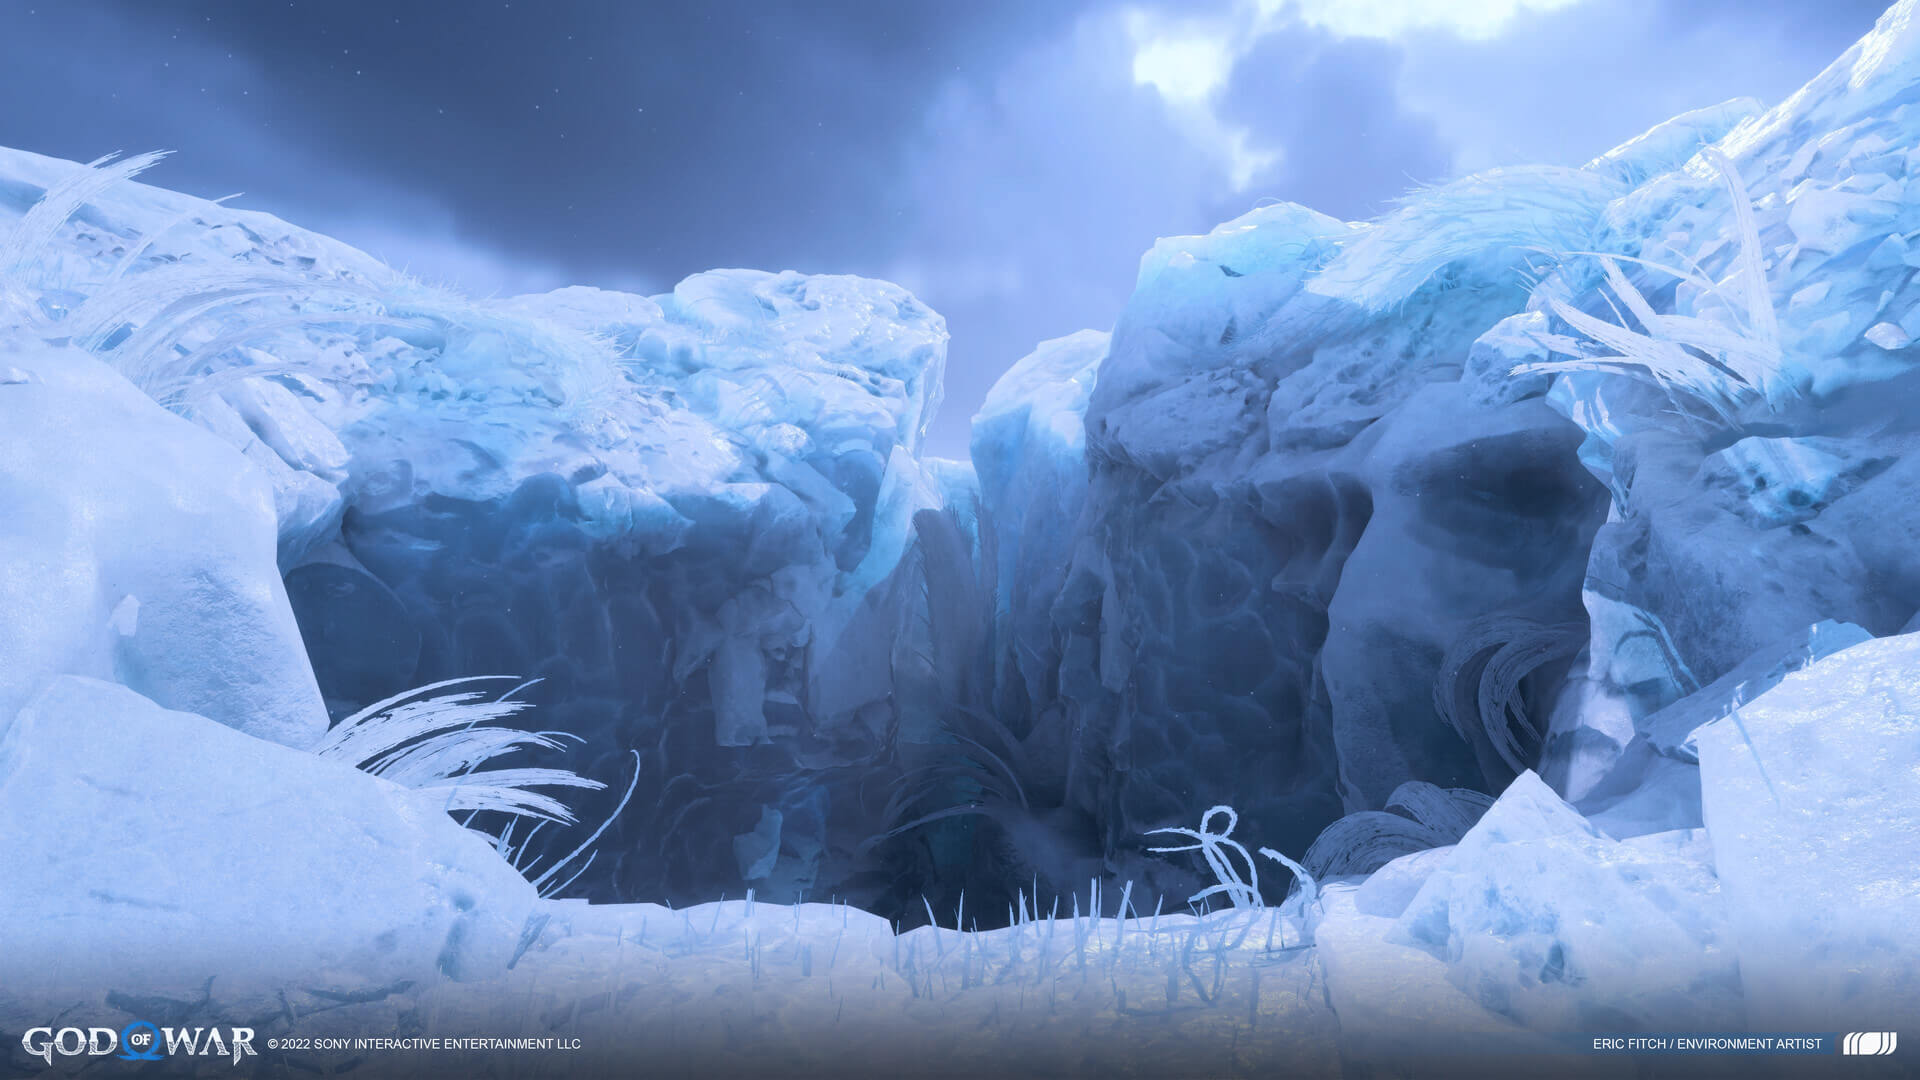
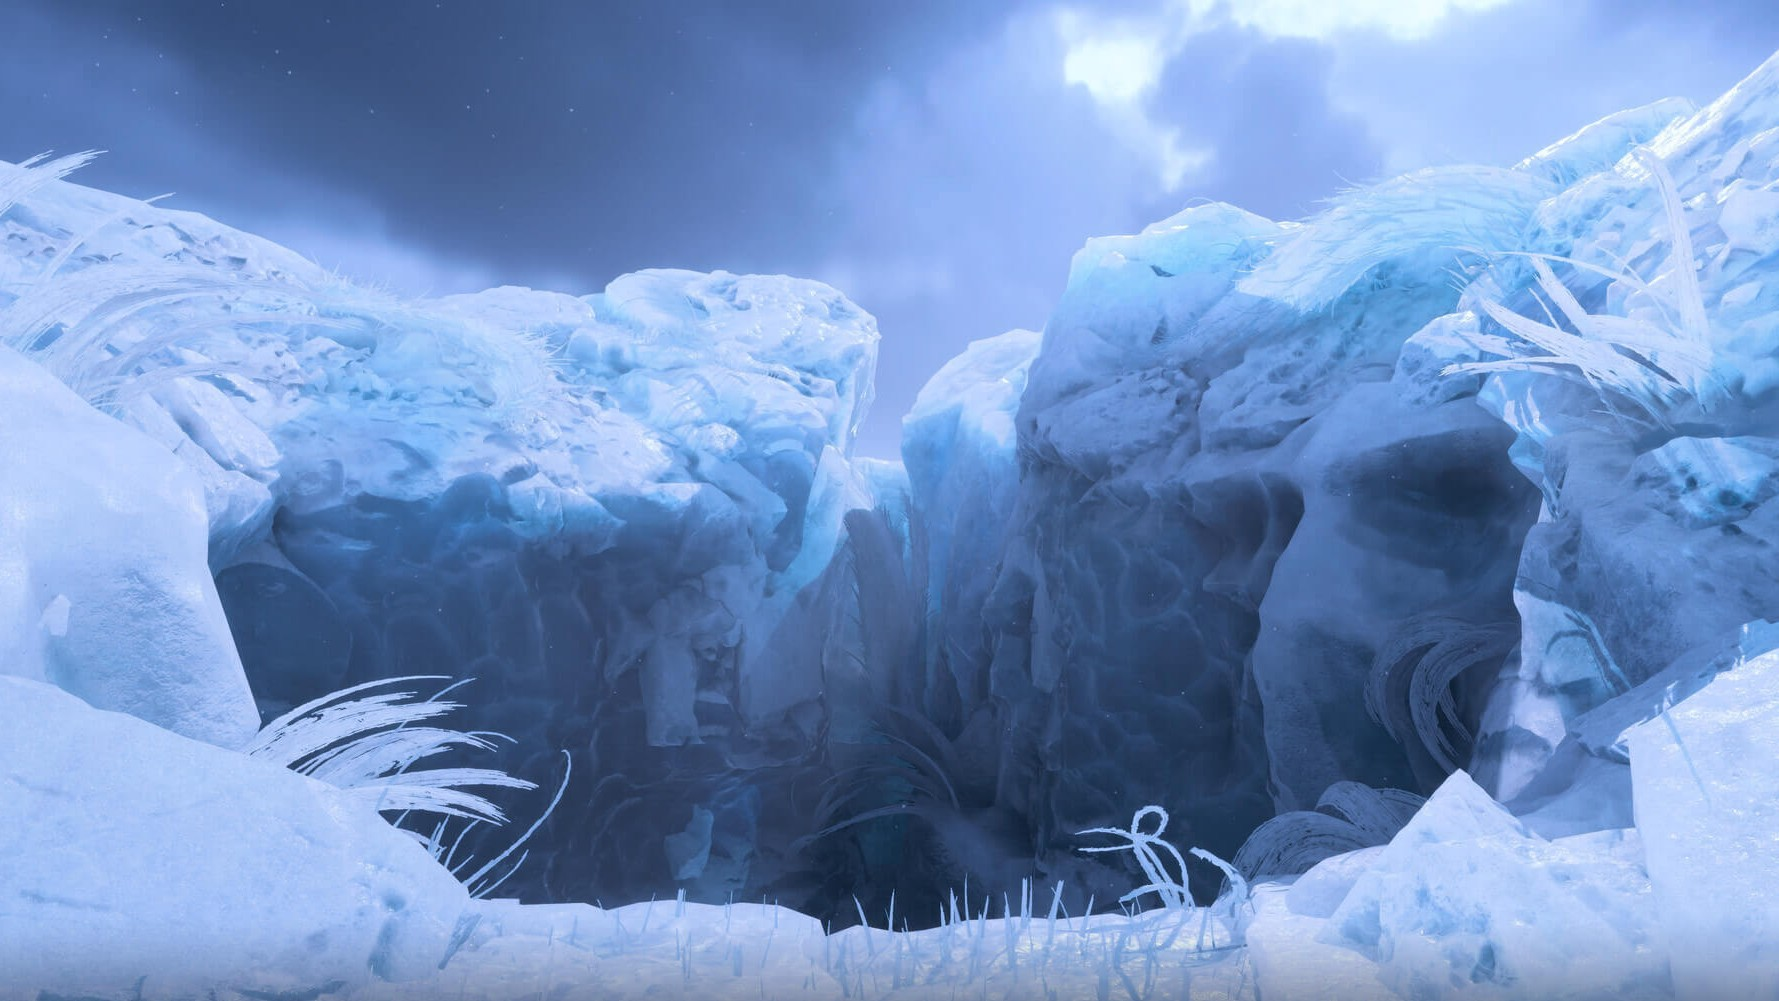
updated

diff --git a/realms/realm-article.css b/realms/realm-article.css
@@ -46,7 +46,7 @@ body {
 }
 
 #niflheim-background {
-    background-image: url(/assets/realms/niflheim/niflheim-cover-custom.jpg);
+    background-image: url(/assets/realms/niflheim/niflheim-cover.jpg);
 }
 
 #helheim-background {
